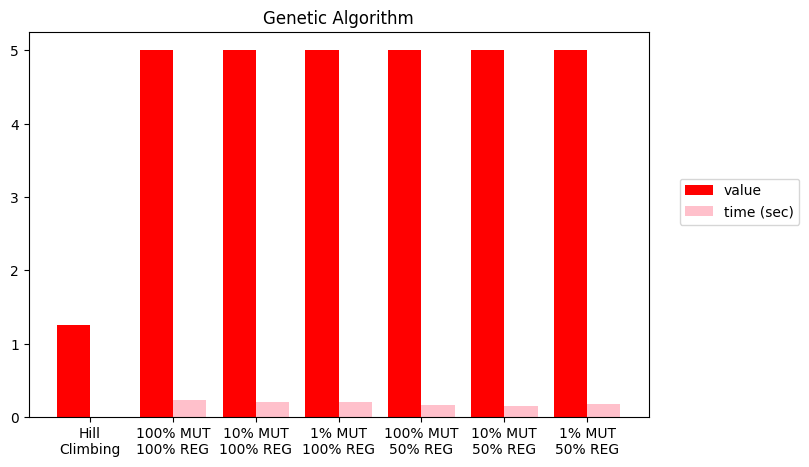
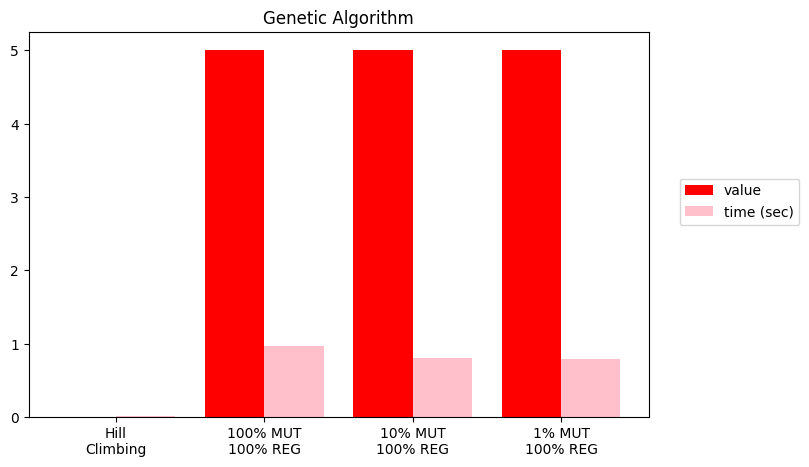
sa loop fix

Changed region(s): [[0.0618, 0.0899, 0.7726, 0.9893]]

diff --git a/graphs.py b/graphs.py
@@ -17,7 +17,7 @@ import time
 
 from multiprocessing import Process as worker, Queue
 from operator import add
-RUNS = 4
+RUNS = 3
 
 @dataclass
 class Args:
@@ -73,7 +73,7 @@ def timed_func(args: Args):
 
 def plot_genetic(data_center, iterations, neighbour_modes):
     initial_solution = random_solution(data_center)
-    ga_values = [[0,0] for x in range(7)]
+    ga_values = [[0,0] for x in range(4)]
 
     population_size = 80
     threads = []
@@ -101,20 +101,20 @@ def plot_genetic(data_center, iterations, neighbour_modes):
     process.start()
     threads.append(process)
 
-    args.mutation_chance, args.replaced_each_generation, args.i = 1, 0.5, 4
-    process = worker(target=timed_func, args = (args,))
-    process.start()
-    threads.append(process)
+    # args.mutation_chance, args.replaced_each_generation, args.i = 1, 0.5, 4
+    # process = worker(target=timed_func, args = (args,))
+    # process.start()
+    # threads.append(process)
 
-    args.mutation_chance, args.i = 0.1, 5
-    process = worker(target=timed_func, args=(args,))
-    process.start()
-    threads.append(process)
+    # args.mutation_chance, args.i = 0.1, 5
+    # process = worker(target=timed_func, args=(args,))
+    # process.start()
+    # threads.append(process)
 
-    args.mutation_chance, args.i = 0.01, 6
-    process = worker(target=timed_func, args =(args,))
-    process.start()
-    threads.append(process)
+    # args.mutation_chance, args.i = 0.01, 6
+    # process = worker(target=timed_func, args =(args,))
+    # process.start()
+    # threads.append(process)
 
     # We now pause execution on the main thread by 'joining' all of our started threads.
     # This ensuq that each has finished processing the urls.
@@ -132,10 +132,7 @@ def plot_genetic(data_center, iterations, neighbour_modes):
     algorithms = ["Hill\nClimbing", 
     "100% MUT\n100% REG",
     '10% MUT\n100% REG',
-    '1% MUT\n100% REG',    
-    "100% MUT\n50% REG",
-    '10% MUT\n50% REG',
-    '1% MUT\n50% REG']
+    '1% MUT\n100% REG']
 
 
 
@@ -194,7 +191,7 @@ def plot_all(data_center, iterations, initial_solution, neighbour_modes, problem
     if(problem_size == 'big'):
         tenure = 200
     else:
-        tenure = 0
+        tenure = 100
     args.func, args.i, args.max_tenure = 'tabu', 3, tenure
     process = worker(target=timed_func, args=(args,))
     process.start()

diff --git a/src/algorithms/genetic.py b/src/algorithms/genetic.py
@@ -7,7 +7,7 @@ from src.solution.evaluation import evaluate_solution
 from src.solution.solution import random_solution
 
 
-TRIES = 10
+TRIES = 4
 
 def genetic(config: DataCenter, solution: Solution, neighbour_modes,generations, population_size=100, mutation_chance=1,
             replaced_each_generation=1):
@@ -23,13 +23,15 @@ def genetic(config: DataCenter, solution: Solution, neighbour_modes,generations,
 
     # Generate generations
     for gen in range(generations -1):
-        print("Gen", gen)
         population = get_new_population(population, config, mutation_chance, neighbour_modes, replaced_each_generation)
         # Get best solution of current population
+        currBest = population[0]
         for sol in population:
+            if evaluate_solution(sol, config) > evaluate_solution(currBest, config):
+                currBest = sol
             if evaluate_solution(sol, config) > evaluate_solution(bestSolution, config):
                 bestSolution = sol
-        evaluations.append(evaluate_solution(bestSolution,config))
+        evaluations.append(evaluate_solution(currBest,config))
 
     return bestSolution, evaluations
 
@@ -48,7 +50,6 @@ def get_new_population(population, config, mutation_chance, neighbour_modes,repl
     popSize = len(population)
 
     while len(newPopulation) < (popSize - replaced_each_generation*popSize):
-        print("Adding")
         x = (choices(population, roulette))[0]
         newPopulation.append(x)
 
@@ -57,11 +58,9 @@ def get_new_population(population, config, mutation_chance, neighbour_modes,repl
     while len(newPopulation) < popSize:
         # Get parent 1 according to roulette
         x = (choices(population, roulette))[0]
-        print("Getting parent x")
         tries = 0
         while tries < TRIES:
             # Get parent 2 that is different to parent 1
-            print("Getting parent y")
             y = (choices(population, roulette))[0]
             if y != x:
                 break

diff --git a/src/algorithms/simulated_annealing.py b/src/algorithms/simulated_annealing.py
@@ -1,5 +1,6 @@
 from math import exp
 from typing import ByteString
+from numpy import tri
 
 from numpy.random import rand
 
@@ -10,6 +11,8 @@ from src.solution.solution import random_solution
 
 from numpy.random import rand
 from matplotlib import pyplot
+
+TRIES = 100
 
 def simulated_annealing(config: DataCenter, iterations: int, init_temp, schedule_function, curr_evals=None,
                         best_evals=None):
@@ -28,8 +31,10 @@ def simulated_annealing(config: DataCenter, iterations: int, init_temp, schedule
         temp = schedule_function(init_temp, iterations, i, temp)
         # new solution
         new_sol = get_random_neighbour(curr, config)
-        while(evaluate_solution(new_sol, config)==0):
+        tries = 0
+        while(evaluate_solution(new_sol, config)==0 and tries < TRIES):
             new_sol = get_random_neighbour(curr, config)
+            tries += 1
 
         new_sol_eval = evaluate_solution(new_sol, config)
         if(new_sol_eval > best_eval):
